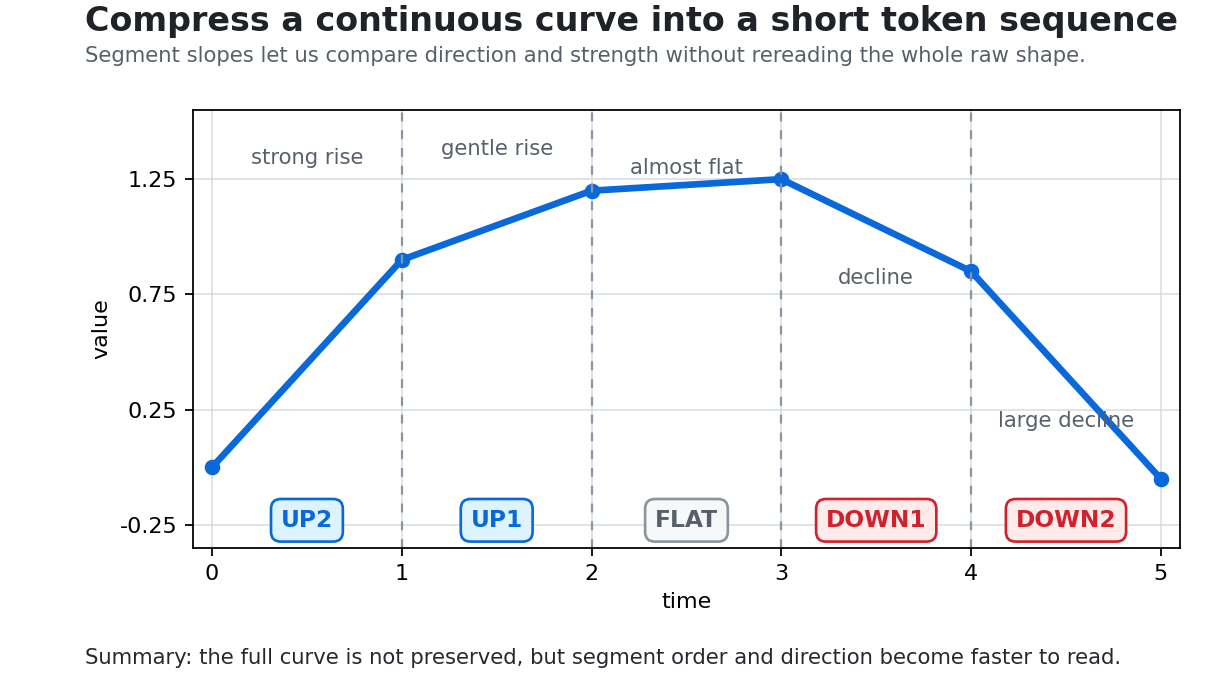
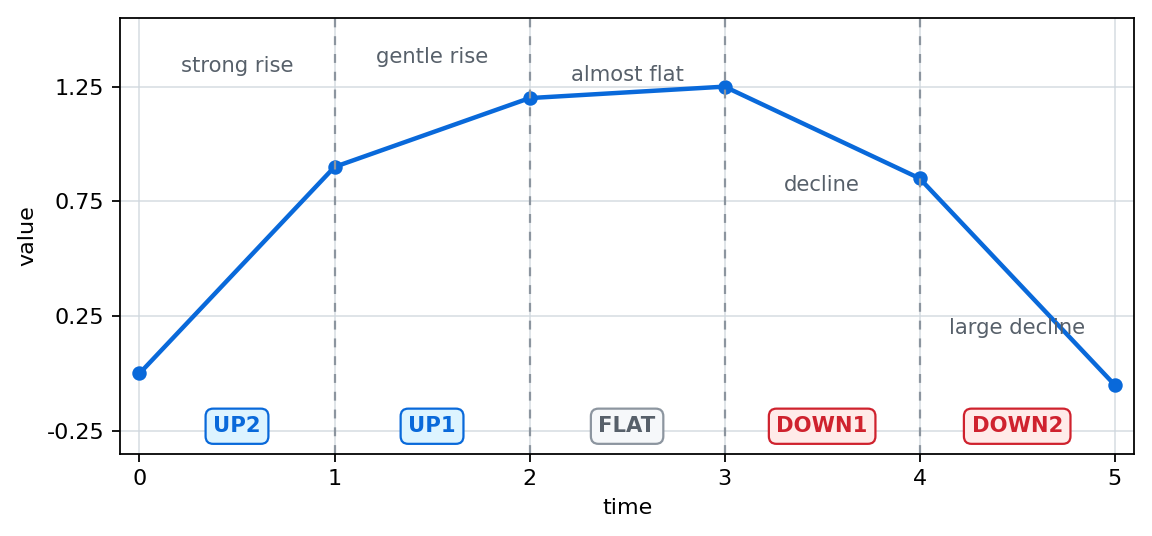
Refine P3-6.2 chart labeling

diff --git a/docs/assets/part-03/chapter-06/p3_6_2_segment_tokenization_curve.py b/docs/assets/part-03/chapter-06/p3_6_2_segment_tokenization_curve.py
@@ -23,32 +23,23 @@ TOKENS = ["UP2", "UP1", "FLAT", "DOWN1", "DOWN2"]
 LANG_TEXT = {
     "ko": {
         "font_candidates": ["Apple SD Gothic Neo", "AppleGothic", "Arial Unicode MS", "DejaVu Sans"],
-        "title": "연속 곡선을 짧은 토큰 시퀀스로 압축한다",
-        "subtitle": "구간별 기울기를 보면 원시 모양을 모두 보지 않아도 방향과 강도를 빠르게 비교할 수 있다.",
         "xlabel": "시간",
         "ylabel": "값",
         "segment_labels": ["큰 상승", "완만한 상승", "거의 평평", "하강", "큰 하강"],
-        "summary": "요약: 세부 곡선을 모두 보존하지는 않지만, 구간 순서와 방향은 더 빠르게 읽힌다.",
         "outfile": "segment-tokenization-curve-ko.png",
     },
     "en": {
         "font_candidates": ["DejaVu Sans", "Arial Unicode MS"],
-        "title": "Compress a continuous curve into a short token sequence",
-        "subtitle": "Segment slopes let us compare direction and strength without rereading the whole raw shape.",
         "xlabel": "time",
         "ylabel": "value",
         "segment_labels": ["strong rise", "gentle rise", "almost flat", "decline", "large decline"],
-        "summary": "Summary: the full curve is not preserved, but segment order and direction become faster to read.",
         "outfile": "segment-tokenization-curve-en.png",
     },
     "zh": {
         "font_candidates": ["Arial Unicode MS", "Heiti TC", "PingFang SC", "DejaVu Sans"],
-        "title": "把连续曲线压缩成短 token 序列",
-        "subtitle": "看区段斜率，就能不重读整条原始形状，也比较方向和强度。",
         "xlabel": "时间",
         "ylabel": "值",
         "segment_labels": ["大幅上升", "缓慢上升", "几乎平", "下降", "大幅下降"],
-        "summary": "总结：不能保留完整曲线细节，但区段顺序和方向会更快被读出来。",
         "outfile": "segment-tokenization-curve-zh.png",
     },
 }
@@ -67,11 +58,11 @@ def save_chart(lang: str, text: dict[str, object]) -> None:
     plt.rcParams["axes.unicode_minus"] = False
 
     x = np.arange(len(POINTS))
-    fig, ax = plt.subplots(figsize=(7.6, 4.3), dpi=160)
+    fig, ax = plt.subplots(figsize=(7.2, 3.35), dpi=160)
 
     fig.patch.set_facecolor("white")
     ax.set_facecolor("white")
-    ax.plot(x, POINTS, marker="o", linewidth=3, color="#0969da")
+    ax.plot(x, POINTS, marker="o", markersize=5.5, linewidth=2.0, color="#0969da")
     ax.set_xlim(-0.1, 5.1)
     ax.set_ylim(-0.35, 1.55)
     ax.set_xlabel(text["xlabel"])
@@ -97,21 +88,17 @@ def save_chart(lang: str, text: dict[str, object]) -> None:
             token,
             ha="center",
             va="center",
-            fontsize=10.5,
+            fontsize=9.5,
             fontweight="bold",
             color=color,
-            bbox={"boxstyle": "round,pad=0.42", "facecolor": face, "edgecolor": edge, "linewidth": 1.2},
+            bbox={"boxstyle": "round,pad=0.36", "facecolor": face, "edgecolor": edge, "linewidth": 1.0},
         )
 
     ax.set_xticks(np.arange(6))
     ax.set_xticklabels(["0", "1", "2", "3", "4", "5"])
     ax.set_yticks([-0.25, 0.25, 0.75, 1.25])
 
-    fig.text(0.07, 0.955, text["title"], fontsize=15, fontweight="bold", color="#1f2328", ha="left")
-    fig.text(0.07, 0.91, text["subtitle"], fontsize=9.5, color="#57606a", ha="left")
-    fig.text(0.07, 0.035, text["summary"], fontsize=9.5, color="#24292f", ha="left")
-
-    fig.tight_layout(rect=[0.055, 0.075, 0.99, 0.875])
+    fig.tight_layout(pad=0.8)
     fig.savefig(OUT_DIR / text["outfile"])
     plt.close(fig)
 

diff --git a/management/guidelines/chart-guidelines.md b/management/guidelines/chart-guidelines.md
@@ -239,6 +239,15 @@
 - 한국어와 중국어처럼 CJK 라벨이 들어가면 폰트가 깨지지 않는지 최소 한 번은 이미지로 확인합니다.
 - Python/Matplotlib을 추가하거나 기존 스크립트를 재실행해야 한다면 `requirements.txt`에 필요한 버전이 실제 설치 가능한지 확인합니다.
 
+### 그래프 내부 텍스트 판단 기준
+
+- 본문 안에 삽입되는 Matplotlib 그래프에서는 본문이나 이미지 앞뒤 문장으로 대체 가능한 제목, 설명문, 하단 요약문을 그래프 안에서 다시 렌더링하지 않습니다.
+- 그래프 내부에 남기는 텍스트는 그래프 자체를 읽는 데 필요한 라벨로 제한합니다.
+- 허용되는 내부 라벨은 축 라벨, 눈금 라벨, 범례, 구간 라벨, 데이터 라벨, 토큰 라벨, 임계값 라벨처럼 그래프의 점·선·구간·색·기호와 직접 연결되는 텍스트입니다.
+- `큰 상승`, `완만한 상승`, `거의 평평`처럼 구간의 의미를 직접 붙잡는 문구와 `UP2`, `UP1`, `FLAT`, `DOWN1`, `DOWN2`처럼 구간을 설명하는 토큰 값은 그래프 내부 데이터 라벨로 볼 수 있습니다.
+- 제거해야 하는 내부 문구는 그래프 제목, 그래프 위 설명문, 그래프 아래 요약문, 본문 문단을 그대로 압축한 해석 문장처럼 이미지 밖 본문이나 캡션으로 옮겨도 그래프 해독이 유지되는 텍스트입니다.
+- 판단이 애매하면 `이 문구가 없으면 점·선·구간·색·기호의 의미가 불명확해지는가`를 먼저 봅니다. 그렇다면 내부 라벨로 남기고, 그렇지 않다면 본문이나 캡션으로 옮깁니다.
+
 ## SVG 기본 구조
 
 - SVG에는 반드시 `<title>`과 `<desc>`를 넣어 접근성과 검색 가능성을 확보합니다.
@@ -253,12 +262,12 @@
 
 수학 그래프나 차트에는 가능하면 다음 요소를 일관되게 둡니다.
 
-- 제목 또는 핵심 메시지
+- 제목 또는 핵심 메시지. 다만 본문 삽입용 Matplotlib 그래프처럼 본문 앞뒤 문장이 제목 역할을 이미 맡는 경우에는 그래프 내부 제목을 생략할 수 있습니다.
 - 축(axis) 또는 기준선
 - 격자(grid) 또는 눈금(tick)
 - 주요 점(point), 선(line), 벡터(vector), 구간(interval)
 - 변화량 표시: `Δx`, `Δy`, 방향 화살표 등
-- 그래프 또는 차트 아래 한 문장 요약
+- 그래프 또는 차트 아래 한 문장 요약. 다만 본문 문단이나 캡션으로 충분히 설명되는 경우에는 이미지 내부 요약문을 두지 않습니다.
 
 모든 요소가 항상 필요하지는 않습니다. 다만 독자가 그래프나 차트만 보고도 “무엇을 보라는 것인가”를 파악할 수 있어야 합니다.
 

diff --git a/management/release-notes/sections/part-03/P3-6.2.md b/management/release-notes/sections/part-03/P3-6.2.md
@@ -17,6 +17,8 @@
 
 - 변경 이유: 본문이 원시 곡선, 구간 기울기, 토큰 경계를 설명하지만 실제 곡선이 어떻게 짧은 토큰 시퀀스로 압축되는지 시각적으로 확인하는 장치가 없었다.
 - 본문 반영: 한국어 원문과 영어·중국어 간체 번역본에 원시 곡선을 다섯 구간으로 나누고 `UP2`, `UP1`, `FLAT`, `DOWN1`, `DOWN2`로 요약하는 pyplot 생성 그래프와 설명 문장을 추가했다.
+- 변경 이유: 그래프 내부에 제목, 설명문, 하단 요약문까지 렌더링하면 본문 문장과 역할이 겹치고 이미지가 과하게 커졌다.
+- 자산 반영: 구간 라벨과 토큰 라벨은 그래프를 읽는 핵심 데이터로 유지하되, 제목·설명문·하단 요약문은 제거하고 주 곡선의 선 두께와 토큰 라벨 박스 두께를 줄였다.
 - 번역 동기화 메모: 한국어, 영어, 중국어 본문이 모두 같은 생성 스크립트에서 나온 언어별 PNG를 직접 참조하도록 동기화 완료.
 - 번역 반영 상태: 영문·중국어 간체 반영 완료
 - 관련 자산: `docs/assets/part-03/chapter-06/p3_6_2_segment_tokenization_curve.py`, `docs/assets/part-03/chapter-06/segment-tokenization-curve-ko.png`, `docs/assets/part-03/chapter-06/segment-tokenization-curve-en.png`, `docs/assets/part-03/chapter-06/segment-tokenization-curve-zh.png`, `docs/assets/part-03/chapter-06/README.md`

diff --git a/docs/assets/part-03/chapter-06/README.md b/docs/assets/part-03/chapter-06/README.md
@@ -6,6 +6,7 @@
 - Each Mermaid set uses a flat filename pattern so language variants stay grouped by basename.
 - When updating a Mermaid diagram set, revise the English original first. Sync the Korean derivative, and add or refresh a Simplified Chinese derivative only when the diagram itself needs localized labels.
 - Pyplot-generated chart assets keep the generating script next to the output images and use language-suffixed filenames when visible labels differ by manuscript language.
+- The P3-6.2 pyplot chart keeps only graph-reading labels inside the image, such as axes, segment labels, and token labels. Title, description, and summary text stay in the manuscript body instead of being rendered into the PNG.
 - Current language sets:
   - `p3-6-6-mermaid-01-en.mmd` / `p3-6-6-mermaid-01-ko.mmd`
   - `p3_6_2_segment_tokenization_curve.py`
